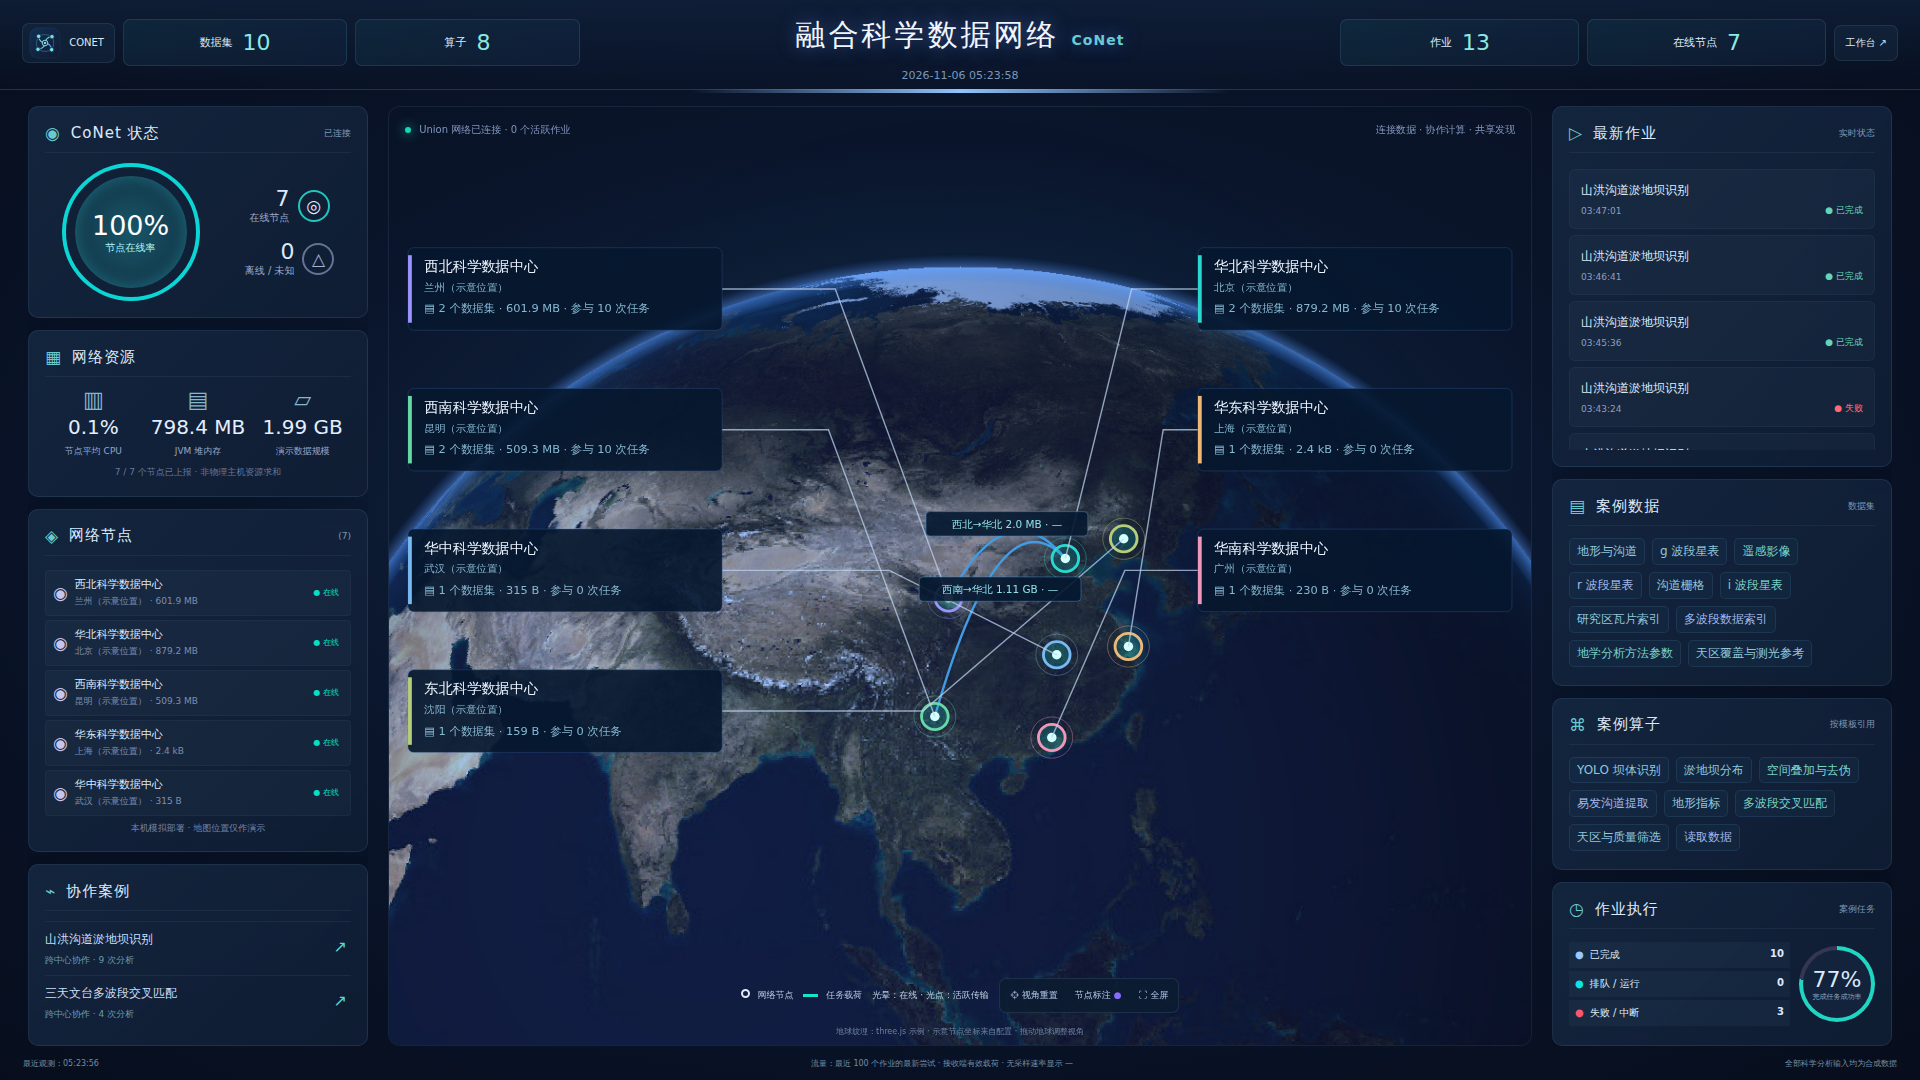
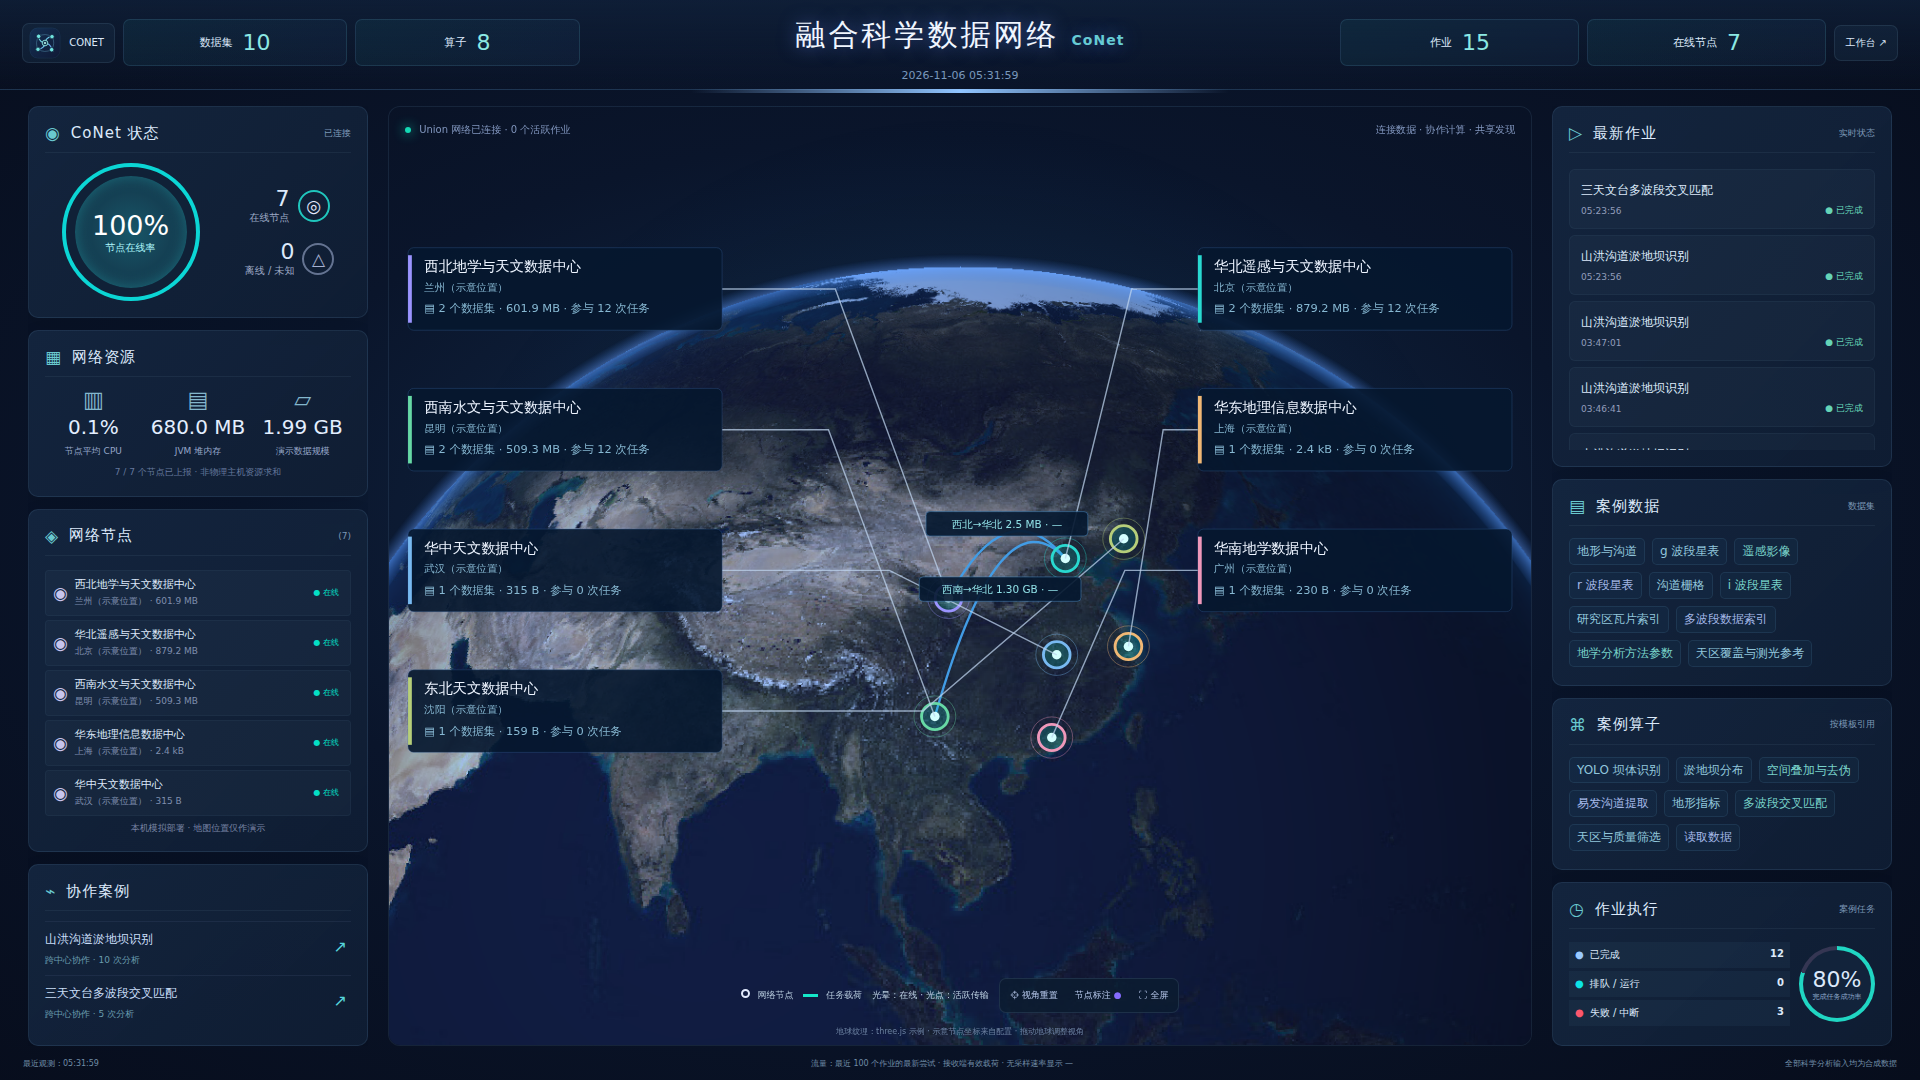
Name data centers by region and hosted disciplines

diff --git a/web/screen.js b/web/screen.js
@@ -14,7 +14,7 @@ ctx.clearRect(0,0,CW,CH);ctx.putImageData(image,0,0);const glow=ctx.createRadial
 const image=new Image();image.onload=()=>{const t=document.createElement('canvas');t.width=image.naturalWidth;t.height=image.naturalHeight;const p=t.getContext('2d');p.drawImage(image,0,0);texture=p.getImageData(0,0,t.width,t.height);earth();drawNetwork()};image.onerror=()=>{$('globe-state').textContent='地球背景加载失败；节点状态仍可查看'};image.src='/assets/earth.jpg';
 function rate(edge){const old=lastSamples[edge.source+'-'+edge.target]||{},samples=edge.samples||[];let total=0,n=0;for(const x of samples){const p=old[x.key];if(x.active&&p&&x.observed_at_ms>p.at&&x.bytes>=p.bytes){total+=(x.bytes-p.bytes)*1000/(x.observed_at_ms-p.at);n++}}lastSamples[edge.source+'-'+edge.target]=Object.fromEntries(samples.map(x=>[x.key,{bytes:x.bytes,at:x.observed_at_ms}]));return n?formatBytes(total)+'/s':'—'}
 function drawNetwork(){if(!config)return;const positions={},byIdentity={};config.centers.forEach(c=>{if(c.location){positions[c.id]=position(c.location.longitude,c.location.latitude);if(member(c))byIdentity[member(c).identity]=c.id}});let lines='',nodes='',labels='',traffic='';const occupied=[];if(showLabels)config.centers.forEach((c,i)=>{if(positions[c.id]?.visible){const rows=Math.ceil(config.centers.length/2);occupied.push({x:i%2?850:20,y:150+Math.floor(i/2)*Math.min(150,560/Math.max(1,rows-1)),w:330,h:88})}});const overlaps=(a,b)=>a.x<b.x+b.w+10&&a.x+a.w+10>b.x&&a.y<b.y+b.h+10&&a.y+a.h+10>b.y;
-for(const edge of snapshot?.topology?.edges||[]){const from=byIdentity[edge.source],to=byIdentity[edge.target],a=positions[from],b=positions[to];if(!a?.visible||!b?.visible)continue;const mx=(a.x+b.x)/2,my=Math.min(a.y,b.y)-75;const active=(edge.samples||[]).some(s=>s.active);lines+=`<path d="M${a.x} ${a.y}Q${mx} ${my} ${b.x} ${b.y}" fill="none" stroke="${active?'#09efbc':'#429ce5'}" stroke-width="2.5" ${active?'stroke-dasharray="5 6" class="flow-active"':''}/>`;if(active)lines+=`<circle r="4" fill="#caffee" class="flow-packet"><animateMotion dur="2.6s" repeatCount="indefinite" path="M${a.x} ${a.y}Q${mx} ${my} ${b.x} ${b.y}"/></circle>`;let x=(a.x+b.x)/4+mx/2,y=(a.y+b.y)/4+my/2;const velocity=rate(edge);let slot=null;for(const dy of [0,-38,38,-76,76,-114,114]){const r={x:Math.max(360,Math.min(670,x-85)),y:Math.max(90,Math.min(820,y-23+dy)),w:170,h:26};if(!occupied.some(o=>overlaps(r,o))){slot=r;occupied.push(r);break}}if(!slot)continue;x=slot.x+85;y=slot.y+23;traffic+=`<g transform="translate(${x},${y-10})"><rect x="-85" y="-13" width="170" height="26" rx="4" fill="#06182fe8" stroke="#4c8cc48a"/><text y="4" text-anchor="middle" font-size="11" fill="#90e0e6">${esc(config.centers.find(c=>c.id===from).title.replace('科学数据中心','')+'→'+config.centers.find(c=>c.id===to).title.replace('科学数据中心',''))} ${edge.observed?formatBytes(edge.payload_bytes):'未采样'} · ${velocity}</text></g>`}
+for(const edge of snapshot?.topology?.edges||[]){const from=byIdentity[edge.source],to=byIdentity[edge.target],a=positions[from],b=positions[to];if(!a?.visible||!b?.visible)continue;const mx=(a.x+b.x)/2,my=Math.min(a.y,b.y)-75;const active=(edge.samples||[]).some(s=>s.active);lines+=`<path d="M${a.x} ${a.y}Q${mx} ${my} ${b.x} ${b.y}" fill="none" stroke="${active?'#09efbc':'#429ce5'}" stroke-width="2.5" ${active?'stroke-dasharray="5 6" class="flow-active"':''}/>`;if(active)lines+=`<circle r="4" fill="#caffee" class="flow-packet"><animateMotion dur="2.6s" repeatCount="indefinite" path="M${a.x} ${a.y}Q${mx} ${my} ${b.x} ${b.y}"/></circle>`;let x=(a.x+b.x)/4+mx/2,y=(a.y+b.y)/4+my/2;const velocity=rate(edge);let slot=null;for(const dy of [0,-38,38,-76,76,-114,114]){const r={x:Math.max(360,Math.min(670,x-85)),y:Math.max(90,Math.min(820,y-23+dy)),w:170,h:26};if(!occupied.some(o=>overlaps(r,o))){slot=r;occupied.push(r);break}}if(!slot)continue;x=slot.x+85;y=slot.y+23;traffic+=`<g transform="translate(${x},${y-10})"><rect x="-85" y="-13" width="170" height="26" rx="4" fill="#06182fe8" stroke="#4c8cc48a"/><text y="4" text-anchor="middle" font-size="11" fill="#90e0e6">${esc(config.centers.find(c=>c.id===from).title.slice(0,2)+'→'+config.centers.find(c=>c.id===to).title.slice(0,2))} ${edge.observed?formatBytes(edge.payload_bytes):'未采样'} · ${velocity}</text></g>`}
 const rows=Math.ceil(config.centers.length/2),cards=config.centers.map((_,i)=>({x:i%2?850:20,y:150+Math.floor(i/2)*Math.min(150,560/Math.max(1,rows-1))})),colors=['#9b94ff','#29d9d0','#67d8a5','#f0b875','#78b9f1','#ef98ba','#b6ce7a'];config.centers.forEach((c,i)=>{const p=positions[c.id];if(!p?.visible)return;const good=online(c),color=good?colors[i%colors.length]:'#d9a75a',highlight=selected===c.id;nodes+=`<g class="node-hit ${good?'node-online':'node-offline'}" data-node="${esc(c.id)}"><circle class="node-halo" cx="${p.x}" cy="${p.y}" r="${highlight?28:22}" fill="none" stroke="${color}" opacity=".4"/><circle cx="${p.x}" cy="${p.y}" r="14" fill="#03d9cf30" stroke="${color}" stroke-width="3"/><circle cx="${p.x}" cy="${p.y}" r="5" fill="#d4ffff"/></g>`;if(!showLabels)return;const card=cards[i],x=card.x,y=card.y,w=330,h=88,anchor=x>p.x?x:x+w,ay=y+h/2;labels+=`<g class="node-hit" data-node="${esc(c.id)}"><path d="M${p.x} ${p.y}L${(p.x+anchor)/2} ${ay}H${anchor}" fill="none" stroke="#bdd4edbb" stroke-width="1.5"/><rect x="${x}" y="${y}" width="${w}" height="${h}" rx="6" fill="#05172ee8" stroke="${highlight?color:'#37619560'}"/><rect x="${x}" y="${y+8}" width="4" height="${h-16}" fill="${color}"/><text x="${x+17}" y="${y+25}" fill="#edf4ff" font-size="15">${esc(c.title)}</text><text x="${x+17}" y="${y+46}" fill="#87b8d2" font-size="11">${esc(c.location.label)}</text><text x="${x+17}" y="${y+69}" fill="#87b8d2" font-size="12">▤ ${c.datasets.length} 个数据集 · ${formatBytes(snapshot?.center_volumes?.[c.id]?.data_bytes)} · 参与 ${snapshot?.topology?.participation?.[member(c)?.identity]??'—'} 次任务</text></g>`});overlay.innerHTML=lines+nodes+labels+traffic;overlay.querySelectorAll('[data-node]').forEach(g=>g.onclick=()=>selectNode(g.dataset.node));}
 function selectNode(id){selected=id;const c=config.centers.find(c=>c.id===id),r=member(c)?.status?.resources;$('node-detail').hidden=false;$('node-detail').textContent=`${c.title}｜数据量 ${formatBytes(snapshot?.center_volumes?.[c.id]?.data_bytes)}｜${c.location.label}｜${online(c)?'在线':'离线或状态未知'}｜${c.datasets.map(d=>d.title).join('、')}｜JVM 堆 ${formatBytes(r?.heap_used_bytes)} / ${formatBytes(r?.heap_max_bytes)}`;document.querySelectorAll('.node-item').forEach(el=>el.classList.toggle('active',el.dataset.node===id));drawNetwork()}
 canvas.onpointerdown=e=>{drag={x:e.clientX,y:e.clientY,angle:[...angle]};canvas.setPointerCapture(e.pointerId)};canvas.onpointermove=e=>{if(!drag)return;angle=[drag.angle[0]-(e.clientX-drag.x)*.12,Math.max(-65,Math.min(65,drag.angle[1]+(e.clientY-drag.y)*.1))];if(!frame)frame=requestAnimationFrame(()=>{earth();drawNetwork();frame=0})};canvas.onpointerup=()=>drag=null;canvas.onpointercancel=()=>drag=null;

diff --git a/cases/check-dams/web/index.html b/cases/check-dams/web/index.html
@@ -1,7 +1,7 @@
 <!doctype html><html lang="zh-CN"><head><meta charset="utf-8"><link rel="icon" href="/assets/conet-mark.svg" type="image/svg+xml"><meta name="viewport" content="width=device-width, initial-scale=1"><title>CONET · 山洪沟道淤地坝识别</title><link rel="stylesheet" href="/cases/check-dams/style.css"></head><body>
 <header><a href="/" style="color:inherit;text-decoration:none;font-size:13px">← CONET 案例中心</a><div class="brand"><img src="/assets/conet-mark.svg" width="34" height="34" alt="CONET"> <span>CONET / 地学协作</span></div><span class="badge">合成数据 · 多个数据中心</span></header>
 <main><section class="intro"><p class="eyebrow">跨中心协作 · 空间分析</p><h1>识别淤地坝，<br><em>沿沟道寻找答案。</em></h1><p>识别合成影像中的淤地坝，结合易发山洪沟道筛选有效候选。框选一个区域，提交固定工作流，观察多个数据中心的协作分析过程。</p><div id="dataset" class="muted"></div></section>
-<div class="centers"><article><b>01 / 地形数据</b><span>西北科学数据中心</span><small>高程 · 集水区 · 沟道拓扑</small></article><div class="arrow">→</div><article><b>02 / 遥感观测</b><span>华北科学数据中心</span><small>RGB 影像 · 坐标 · YOLO 分割</small></article><div class="arrow">→</div><article><b>03 / 空间数据</b><span>西南科学数据中心</span><small>沟道标识栅格 · 叠加 · 分布</small></article></div>
+<div class="centers"><article><b>01 / 地形数据</b><span>西北地学与天文数据中心</span><small>高程 · 集水区 · 沟道拓扑</small></article><div class="arrow">→</div><article><b>02 / 遥感观测</b><span>华北遥感与天文数据中心</span><small>RGB 影像 · 坐标 · YOLO 分割</small></article><div class="arrow">→</div><article><b>03 / 空间数据</b><span>西南水文与天文数据中心</span><small>沟道标识栅格 · 叠加 · 分布</small></article></div>
 <div class="workspace"><section class="panel"><div class="section-title"><div><p class="eyebrow">01 / 研究区域</p><h2>框选分析区域</h2></div><button id="reset">数据覆盖区</button></div><p class="hint">默认选中黄河区域示意范围。拖动平移、滚轮缩放；切换“框选”后拖动绘制选择框。分析仅使用已有数据覆盖范围内的数据。</p><div class="selector-tools"><button id="selector-pan" aria-pressed="true">✥ 平移</button><button id="selector-select" aria-pressed="false">▣ 矩形</button><button id="selector-polygon" aria-pressed="false">⬠ 多边形</button><button id="selector-edit" aria-pressed="false">✎ 编辑顶点</button><button id="polygon-undo" hidden>撤销顶点</button><button id="polygon-finish" hidden>✓ 完成绘制</button><button id="selector-in" aria-label="放大">＋</button><button id="selector-out" aria-label="缩小">－</button><button id="selector-yellow">⌖ 黄河区域</button></div><p id="selector-status" class="hint" role="status">正在加载地理地图…</p><canvas id="selector" width="760" height="480" aria-label="研究区选择地图"></canvas><p class="hint">© <a href="https://www.openstreetmap.org/copyright" target="_blank" rel="noopener">OpenStreetMap contributors</a> · 底图为真实地理信息，分析数据为合成数据。</p><p id="selection-message" class="hint" role="status">支持矩形和多边形。多边形按实际边界分析，边界上的候选点保留；经纬度输入显示外接矩形。</p><div class="coordinates"><label>西经界<input id="west" type="number" step="any"></label><label>南纬界<input id="south" type="number" step="any"></label><label>东经界<input id="east" type="number" step="any"></label><label>北纬界<input id="north" type="number" step="any"></label></div><label class="confidence">YOLO 置信度 <input id="confidence" type="number" min="0.05" max="0.95" step="0.05" value="0.35"></label><div class="actions"><button id="submit" class="primary">▶ 提交分析</button><span id="notice" role="status"></span></div><details><summary>固定作业模板与输入变量</summary><pre id="job-yaml"></pre></details></section>
 <section class="panel execution"><p class="eyebrow">02 / 实时执行</p><h2>从区域选择到分析结果</h2><div id="job-state" class="state">就绪</div><div id="job-id" class="muted">尚未提交作业</div><div id="duration"></div><div id="steps"></div><div id="dashboards" class="links"></div><details><summary>执行明细</summary><pre id="execution-json"></pre></details><h3>近期分析</h3><div id="history"></div></section></div>
 <section class="panel results"><div class="section-title"><div><p class="eyebrow">03 / 分析结果</p><h2>淤地坝分布</h2></div><div id="downloads" class="links"></div></div><div id="metrics" class="metrics"></div><div id="empty" class="empty">分析完成后将在此处展示结果。</div><div id="map-panel" hidden><div class="map-toolbar"><div class="map-layers"><button data-basemap="public">◎ 公开地理地图</button><button data-basemap="imagery" class="selected">▧ 合成遥感影像</button><button data-basemap="terrain">▱ 合成地形</button><label><input id="channels-layer" type="checkbox" checked> 易发沟道</label><label><input id="points-layer" type="checkbox" checked> 坝体候选</label></div><div><button id="map-zoom-in" aria-label="放大地图">＋</button><button id="map-zoom-out" aria-label="缩小地图">－</button><button id="map-regional">◎ 黄土高原区域</button><button id="map-fit">⌖ 分析区域</button><button id="map-export">↓ 地图 PNG</button></div></div><div class="map-stage"><canvas id="result-map" width="1400" height="720" aria-label="可缩放平移的淤地坝分布地图"></canvas><div class="map-caption">合成研究区 · WGS84<br><span><span id="basemap-status">影像与地形来源于本案例输入数据</span></span></div><div id="map-tooltip" class="map-tooltip" hidden></div><span class="map-north">↑ 北</span></div><div id="map-attribution" class="map-attribution" hidden>© <a href="https://www.openstreetmap.org/copyright" target="_blank" rel="noopener">OpenStreetMap contributors</a> · 真实地理底图；沟道与坝体为合成演示数据</div><div class="map-legend"><span>● 有效坝体候选</span><span>━ 易发山洪沟道</span><span>┄ 分析范围</span><span>滚轮缩放 · 拖动平移 · 点击候选点查看详情</span></div><div id="point-detail" class="point-detail">点击地图上的候选点，查看置信度、所属沟道和坐标。</div></div><div class="table-wrap"><table id="sites"><thead><tr><th>候选点</th><th>HydroID</th><th>置信度</th><th>经度</th><th>纬度</th><th>到沟道距离</th><th>多沟道歧义</th></tr></thead><tbody></tbody></table></div><details><summary>剔除候选与分析依据</summary><pre id="audit"></pre></details></section>

diff --git a/docs/platform.md b/docs/platform.md
@@ -67,3 +67,5 @@ The portal cards and screen show the logical file size of the datasets published
 The default network contains Northwest, North China, Southwest, East China, Central China, South China and Northeast China science data centers, all local demonstration nodes. The original six scientific inputs remain published by the first three centers. The other four publish a tile-coverage index, a band index, analysis settings and a survey reference. `scripts/generate_reference_data.py` derives these small datasets from case manifests and actual settings automatically on startup; it may also be run separately. They do not duplicate the GB-scale inputs or imply that each analysis uses all seven centers. Per-center volumes show real file sizes.
 
 Online nodes have a breathing halo. Moving packets appear only when real transfer samples are active. Payload totals and rates use measured values, with `—` for unknown rates. A reduced-motion preference disables these animations.
+
+Center names combine region, discipline and “Data Center”. The Northwest, North China and Southwest centers publish both geoscience-related data and astronomical catalogs, so their names include both disciplines. East China focuses on geographic information, Central and Northeast China on astronomy, and South China on geoscience. These are demonstration names, not real institutions.

diff --git a/docs/cases.md b/docs/cases.md
@@ -8,16 +8,16 @@ This case identifies **existing synthetic check-dam structures** within suscepti
 
 | Center | Data | Approximate volume |
 |---|---|---:|
-| 西北科学数据中心 | DEM, catchments, complete channel geometry/topology | 265 MiB |
-| 华北科学数据中心 | RGB imagery and georeferencing control information | 530 MiB |
-| 西南科学数据中心 | HydroID channel rasters | 177 MiB |
+| Northwest Geoscience and Astronomy Data Center | DEM, catchments, complete channel geometry/topology | 265 MiB |
+| North China Remote Sensing and Astronomy Data Center | RGB imagery and georeferencing control information | 530 MiB |
+| Southwest Hydrology and Astronomy Data Center | HydroID channel rasters | 177 MiB |
 
 ```mermaid
 flowchart LR
-    A[Northwest Science Data Center: terrain] --> S[Slope and entropy]
+    A[Northwest Geoscience and Astronomy Data Center: terrain] --> S[Slope and entropy]
     S --> H[Susceptible channels]
-    B[North China Science Data Center: imagery] --> Y[YOLO segmentation]
-    C[Southwest Science Data Center: HydroID raster] --> O[Spatial overlay]
+    B[North China Remote Sensing and Astronomy Data Center: imagery] --> Y[YOLO segmentation]
+    C[Southwest Hydrology and Astronomy Data Center: HydroID raster] --> O[Spatial overlay]
     H --> O
     Y --> O
     O --> M[Distribution map and GeoJSON]

diff --git a/docs/cases_zh.md b/docs/cases_zh.md
@@ -8,16 +8,16 @@
 
 | 中心 | 数据 | 约计数据量 |
 |---|---|---:|
-| 西北科学数据中心 | 高程、集水区、完整沟道几何与拓扑 | 265 MiB |
-| 华北科学数据中心 | RGB 遥感影像与地理参考控制信息 | 530 MiB |
-| 西南科学数据中心 | HydroID 沟道栅格 | 177 MiB |
+| 西北地学与天文数据中心 | 高程、集水区、完整沟道几何与拓扑 | 265 MiB |
+| 华北遥感与天文数据中心 | RGB 遥感影像与地理参考控制信息 | 530 MiB |
+| 西南水文与天文数据中心 | HydroID 沟道栅格 | 177 MiB |
 
 ```mermaid
 flowchart LR
-    A[西北科学数据中心：地形] --> S[比降与信息熵]
+    A[西北地学与天文数据中心：地形] --> S[比降与信息熵]
     S --> H[易发山洪沟道]
-    B[华北科学数据中心：影像] --> Y[YOLO 分割]
-    C[西南科学数据中心：HydroID 栅格] --> O[空间叠加]
+    B[华北遥感与天文数据中心：影像] --> Y[YOLO 分割]
+    C[西南水文与天文数据中心：HydroID 栅格] --> O[空间叠加]
     H --> O
     Y --> O
     O --> M[分布图与 GeoJSON]

diff --git a/README.md b/README.md
@@ -16,13 +16,13 @@ flowchart LR
     Visitor --> Astro[Observatory interface]
     Dam --> U[DACP Union]
     Astro --> U
-    U <--> A[Northwest Science Data Center: terrain + g catalog]
-    U <--> B[North China Science Data Center: imagery + r catalog]
-    U <--> C[Southwest Science Data Center: channel grids + i catalog]
-    U <--> D[East China: tile coverage index]
-    U <--> E[Central China: band index]
-    U <--> F[South China: analysis settings]
-    U <--> G[Northeast China: survey reference]
+    U <--> A[Northwest Geoscience and Astronomy Data Center: terrain + g catalog]
+    U <--> B[North China Remote Sensing and Astronomy Data Center: imagery + r catalog]
+    U <--> C[Southwest Hydrology and Astronomy Data Center: channel grids + i catalog]
+    U <--> D[East China Geographic Information Data Center: tile coverage index]
+    U <--> E[Central China Astronomy Data Center: band index]
+    U <--> F[South China Geoscience Data Center: analysis settings]
+    U <--> G[Northeast China Astronomy Data Center: survey reference]
     U --> Screen[Live operations screen]
 ```
 

diff --git a/README_zh.md b/README_zh.md
@@ -16,13 +16,13 @@ flowchart LR
     Visitor --> Astro[天文案例界面]
     Dam --> U[DACP Union]
     Astro --> U
-    U <--> A[西北科学数据中心：地形与 g 星表]
-    U <--> B[华北科学数据中心：影像与 r 星表]
-    U <--> C[西南科学数据中心：沟道栅格与 i 星表]
-    U <--> D[华东：研究区瓦片索引]
-    U <--> E[华中：多波段数据索引]
-    U <--> F[华南：分析方法参数]
-    U <--> G[东北：天区覆盖参考]
+    U <--> A[西北地学与天文数据中心：地形与 g 星表]
+    U <--> B[华北遥感与天文数据中心：影像与 r 星表]
+    U <--> C[西南水文与天文数据中心：沟道栅格与 i 星表]
+    U <--> D[华东地理信息数据中心：研究区瓦片索引]
+    U <--> E[华中天文数据中心：多波段数据索引]
+    U <--> F[华南地学数据中心：分析方法参数]
+    U <--> G[东北天文数据中心：天区覆盖参考]
     U --> Screen[实时运行大屏]
 ```
 
